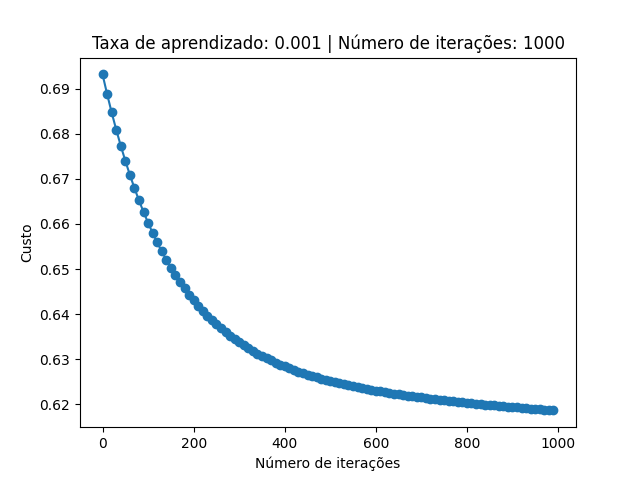
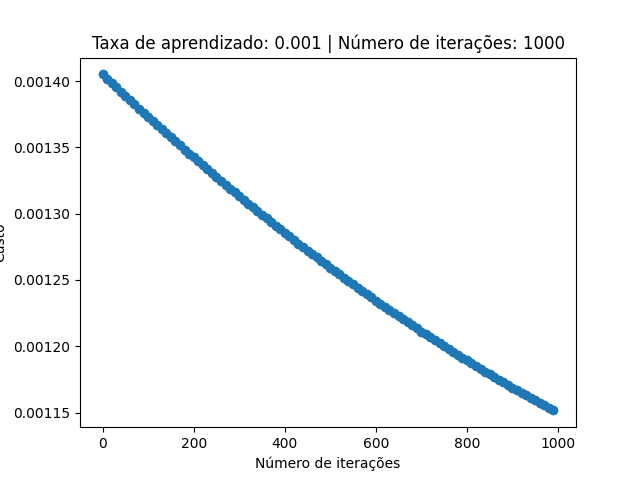
feat: provavel correção, olhar com calca o calculo do custo

diff --git a/Regressao_Logistica.py b/Regressao_Logistica.py
@@ -1,7 +1,7 @@
 import numpy as np
 from numpy.core.fromnumeric import shape
 import scipy
-from treinamento_2nn import treina2nn
+# from treinamento_2nn import treina2nn
 
 # Regressao Logistica implementada com vetorizacao do Numpy. Ao inves de usar loops para iterar em vetores e matrizes,
 # as operacoes sao feitas em nivel delas. Para perfeito entendimento do codigo, recomenda-se revisao de operacoes de
@@ -200,57 +200,6 @@ def constroi_modelo(X_treino, Y_treino, X_teste, Y_teste, num_iteracoes, taxa_ap
     # treina o modelo, aprendendo e otimizando os parametros w e b
     parametros, gradientes, custos = treina(
         w, b, X_treino, Y_treino, num_iteracoes, taxa_aprendizado, print_custo)
-
-    # Recupera do dicionario de parametros
-    w = parametros["w"]
-    b = parametros["b"]
-
-    # Prediz o rótulo de treinamento e de teste
-    Y_predicao_treino = prediz(w, b, X_treino)
-    Y_predicao_teste = prediz(w, b, X_teste)
-
-    # Exibe a taxa de acuracia do treino e do teste
-    # Taxa de acuracia = 100 - MAE*100
-    # Erro medio absoluto (MAE) ~~> MAE = 1/m * soma(|y_predito^(i) - y^(i)|)
-    print("Acuracia de treino: {} %".format(
-        100 - np.mean(np.abs(Y_predicao_treino - Y_treino)) * 100))
-    print("Acuracia de teste: {} %".format(
-        100 - np.mean(np.abs(Y_predicao_teste - Y_teste)) * 100))
-
-    d = {"custos": custos,
-         "Y_predicao_teste": Y_predicao_teste,
-         "Y_predicao_treino": Y_predicao_treino,
-         "w": w,
-         "b": b,
-         "taxa_aprendizado": taxa_aprendizado,
-         "num_iteracoes": num_iteracoes}
-
-    return d
-
-
-def constroi_modelo_2nn(X_treino, Y_treino, X_teste, Y_teste, num_iteracoes, taxa_aprendizado, nr_neuronios, tp_ativacao, print_custo=False):
-    """
-    Constroi o modelo de regressao logistica com base nas funcoes anteriores
-
-    Parametros:
-    X_treino -- conjunto de treinamento de dimensao (n_x, m_treino) que contem as instancias para treinamento
-    Y_treino -- rotulos de treinamento de dimensao (1, m_treino)
-    X_teste -- conjunto de teste de dimensao (n_x, m_teste) que contem as instancias para teste
-    Y_teste -- rotulos de teste de dimensao (1, m_teste)
-    num_iteracoes -- numero de interacoes (epocas) para aprendizado do modelo
-    taxa_aprendizado -- taxa de aprendizado a ser utilizada
-    print_custo -- se verdade, imprimir custo a cada 10 epocas
-
-    Retorno:
-    d -- dicionario contendo informacoes sobre o modelo
-    """
-    m = X_treino.shape[1]
-    parametros, custos = treina2nn(X_treino, Y_treino, m, taxa_aprendizado,
-                                   num_iteracoes, nr_neuronios, tp_ativacao)
-
-    # # treina o modelo, aprendendo e otimizando os parametros w e b
-    # treina(
-    #     w, b, X_treino, Y_treino, num_iteracoes, taxa_aprendizado, print_custo)
 
     # Recupera do dicionario de parametros
     w = parametros["w"]

diff --git a/treinamento_2nn.py b/treinamento_2nn.py
@@ -157,7 +157,39 @@ def treina2nn(X, Y, m, alfa, num_iteracoes, nr_neuronios=3, tp_ativacao='ReLU'):
     # custos = J
     # return parametros, custos
         if i % 10 == 0:
-            custos.append(J)
+            custos.append(np.sum(J[0])/m)
 
-    return W2, b2, W1, b1
+    return W2, b2, W1, b1, custos
 # Saída: W[1], W[2], b[1] e b[2] treinados
+
+
+def constroi_modelo_2nn(X_treino, Y_treino, X_teste, Y_teste, num_iteracoes, taxa_aprendizado, nr_neuronios, tp_ativacao, print_custo=False):
+    """
+    Constroi o modelo de regressao logistica com base nas funcoes anteriores
+
+    Parametros:
+    X_treino -- conjunto de treinamento de dimensao (n_x, m_treino) que contem as instancias para treinamento
+    Y_treino -- rotulos de treinamento de dimensao (1, m_treino)
+    X_teste -- conjunto de teste de dimensao (n_x, m_teste) que contem as instancias para teste
+    Y_teste -- rotulos de teste de dimensao (1, m_teste)
+    num_iteracoes -- numero de interacoes (epocas) para aprendizado do modelo
+    taxa_aprendizado -- taxa de aprendizado a ser utilizada
+    print_custo -- se verdade, imprimir custo a cada 10 epocas
+
+    Retorno:
+    d -- dicionario contendo informacoes sobre o modelo
+    """
+    m = X_treino.shape[1]
+    W2, b2, W1, b1, custos = treina2nn(X_treino, Y_treino, m, taxa_aprendizado,
+                                       num_iteracoes, nr_neuronios, tp_ativacao)
+
+    d = {"custos": custos,
+         #  "Y_predicao_teste": Y_predicao_teste,
+         #  "Y_predicao_treino": Y_predicao_treino,
+         "W1": W1,
+         "b1": b1,
+         "W2": W2,
+         "b2": b2,
+         "taxa_aprendizado": taxa_aprendizado,
+         "num_iteracoes": num_iteracoes}
+    return d

diff --git a/main.py b/main.py
@@ -1,5 +1,6 @@
 from fileHandler import readFile, separator
-from Regressao_Logistica import constroi_modelo, constroi_modelo_2nn
+from Regressao_Logistica import constroi_modelo
+from treinamento_2nn import constroi_modelo_2nn
 import numpy as np
 import matplotlib.pyplot as plt
 
@@ -20,12 +21,13 @@ print(Y_teste.shape)
 
 def raioGraficalizador(dados, intervalo, numeroIteracoes, taxaAprendizado):
     fig, ax = plt.subplots()
-    x = [None] * dados[0].__len__()
 
-    for i in range(dados[0].__len__()):
+    x = [None] * dados.__len__()
+
+    for i in range(dados.__len__()):
         x[i] = i*intervalo
 
-    ax.plot(x, dados[0])
+    ax.plot(x, dados)
     plt.scatter(x, dados)  # scatter são os quadradinhos na linha
 
     titulo = 'Taxa de aprendizado: {0} | Número de iterações: {1}'
@@ -66,11 +68,11 @@ vetor1 = [1000]
 vetor2 = [0.01, 0.001]
 vetor3 = ['ReLU', 'tanh']
 
-# for i in vetor1:
-#     for j in vetor2:
-#         data = constroi_modelo(X_treino, Y_treino, X_teste,
-#                                Y_teste, i, j, print_custo=False)
-#         raioGraficalizador(data['custos'], 10, i, j)
+for i in vetor1:
+    for j in vetor2:
+        data = constroi_modelo(X_treino, Y_treino, X_teste,
+                               Y_teste, i, j, print_custo=False)
+        raioGraficalizador(data['custos'], 10, i, j)
 
 for i in vetor1:
     for j in vetor2:
